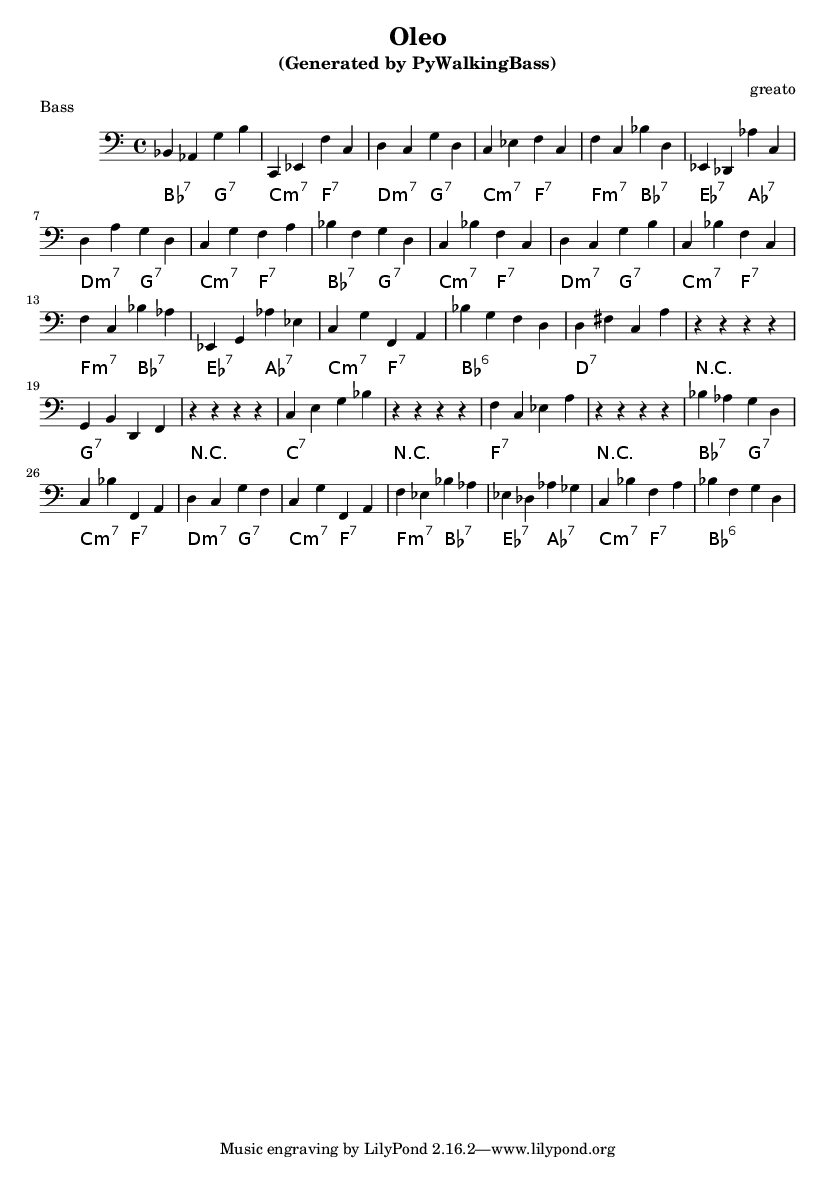
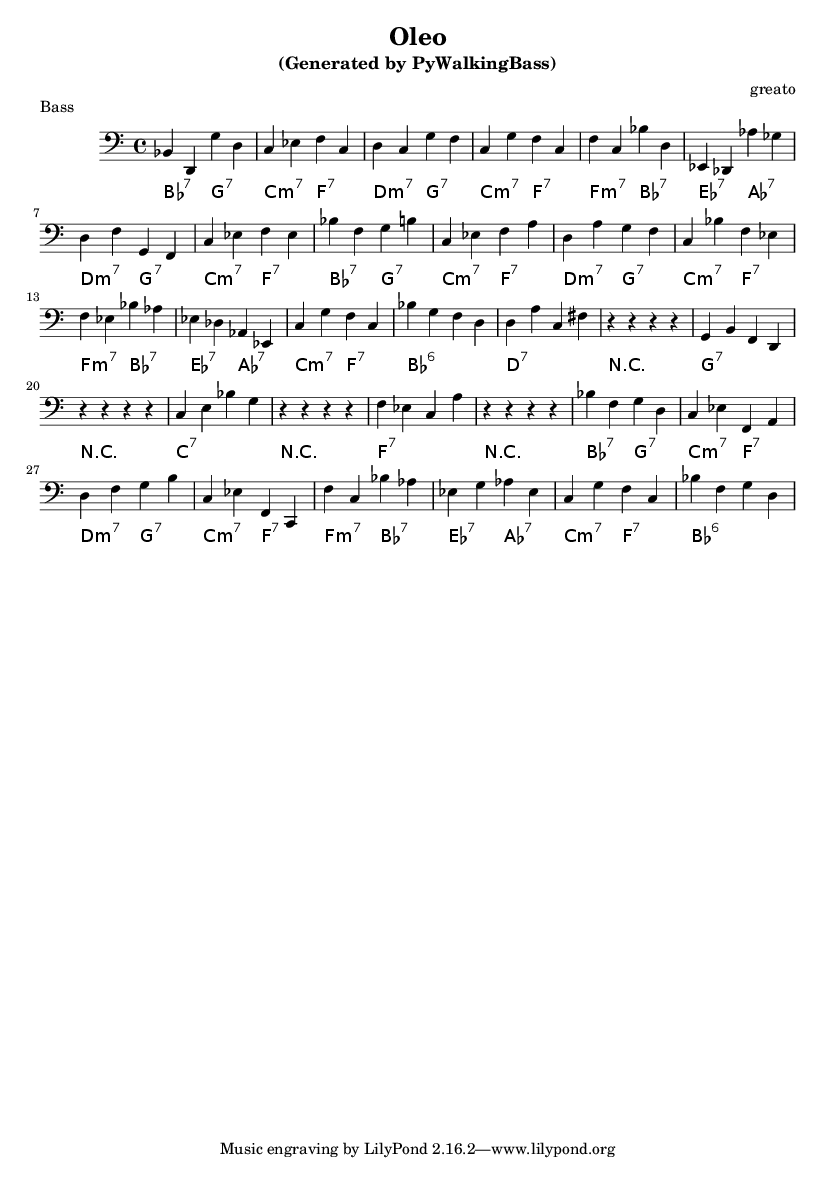
changed pic

Changed region(s): [[0.0311, 0.0914, 0.9653, 0.4572], [0.7473, 0.0914, 0.7784, 0.1219], [0.685, 0.1219, 0.7162, 0.1524]]

diff --git a/walkingbass.py b/walkingbass.py
@@ -99,7 +99,7 @@ class walking_bass():
 				m.append(j)
 		i = m[0]
 		if i in ['E','F','F#','Gb','G']:
-			ret = choice(['1','2','3'])
+			ret = choice(['2','3','4'])
 		else:
 			ret = choice(['2','3'])
 		octave.append(ret)
